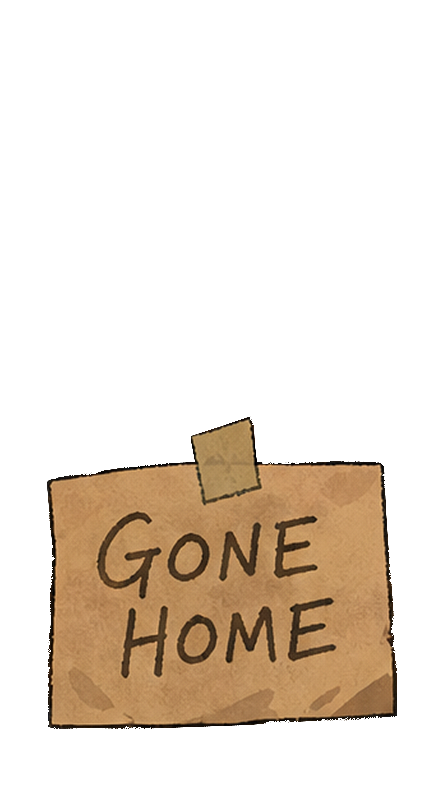
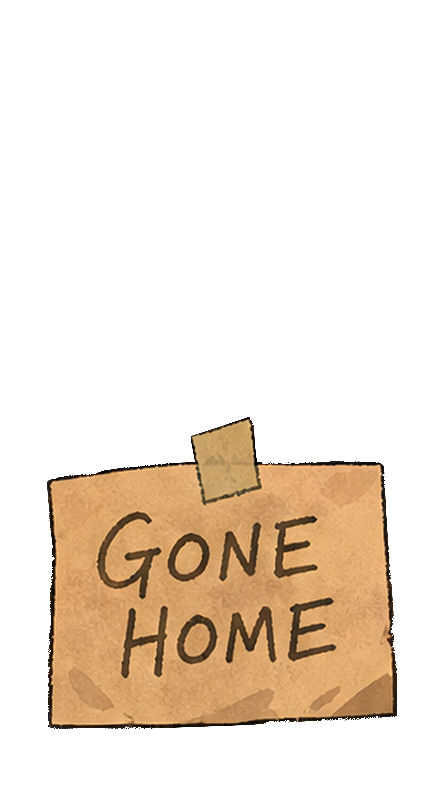
P83b: GoneHome sign brightened by Denis - reload (v3)

Changed region(s): [[0.1174, 0.5299, 0.9097, 0.904]]

diff --git a/fark_proto.html b/fark_proto.html
@@ -12656,7 +12656,7 @@ function _ptRenderCards(){
         +'<img class="lffg" src="'+PT_P+'frame_fg_'+st.color+'.png?v=2" alt="">'
         +'<canvas class="ctext"></canvas>'
         +(st.gone?'':'<img class="cseal" src="'+PT_TRAITDIR+st.trait+'.png" alt="" title="'+st.word+'">')
-        +(st.gone?'<img class="lgone" src="'+PT_P+'GoneHome.png?v=2" alt="">':'')
+        +(st.gone?'<img class="lgone" src="'+PT_P+'GoneHome.png?v=3" alt="">':'')
         +'</div></div>';
     if(st.sealed&&!st.gone){
       var smoke='<div class="csout"></div><div class="csmoke"><i></i><i></i><i></i><i></i>';
